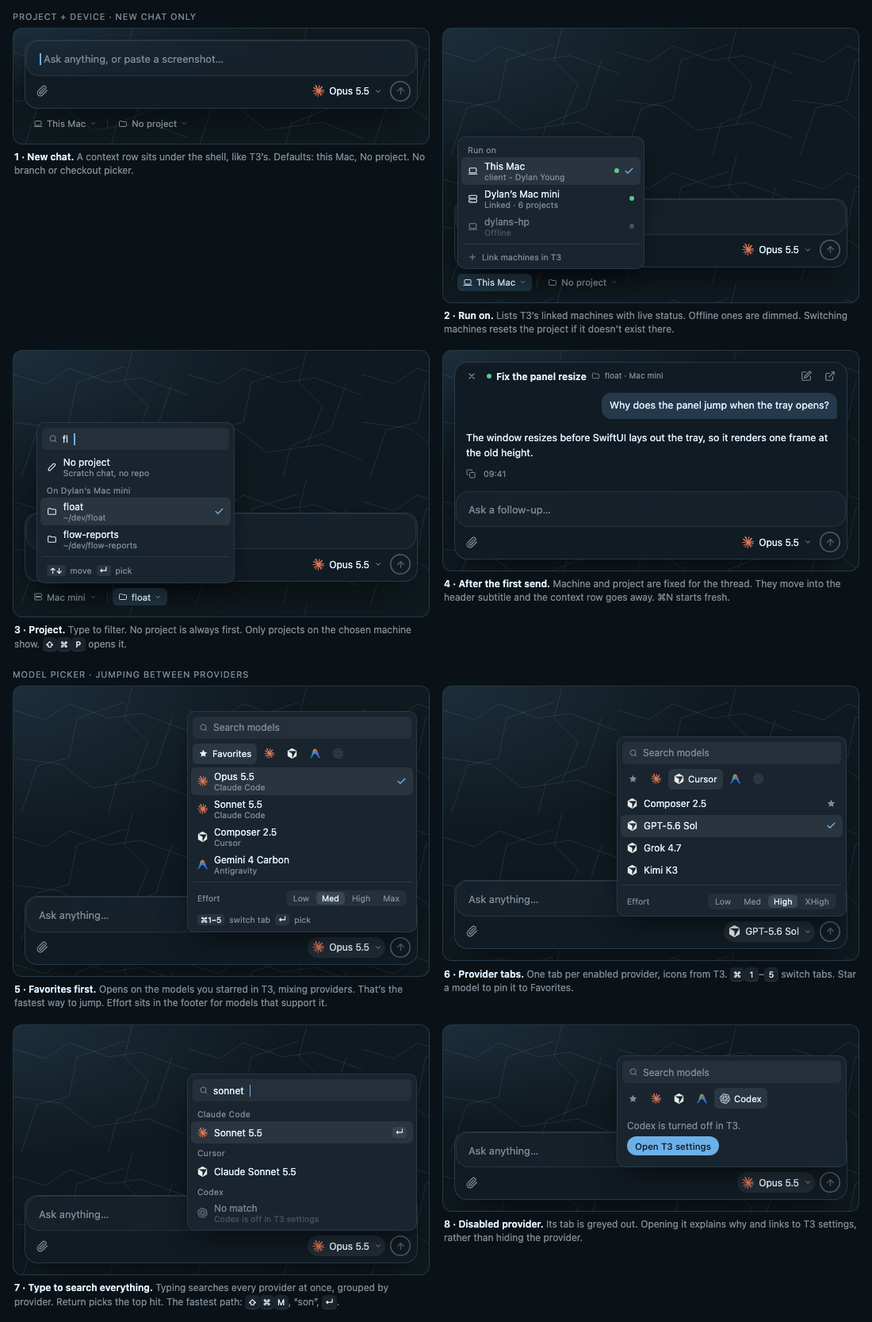
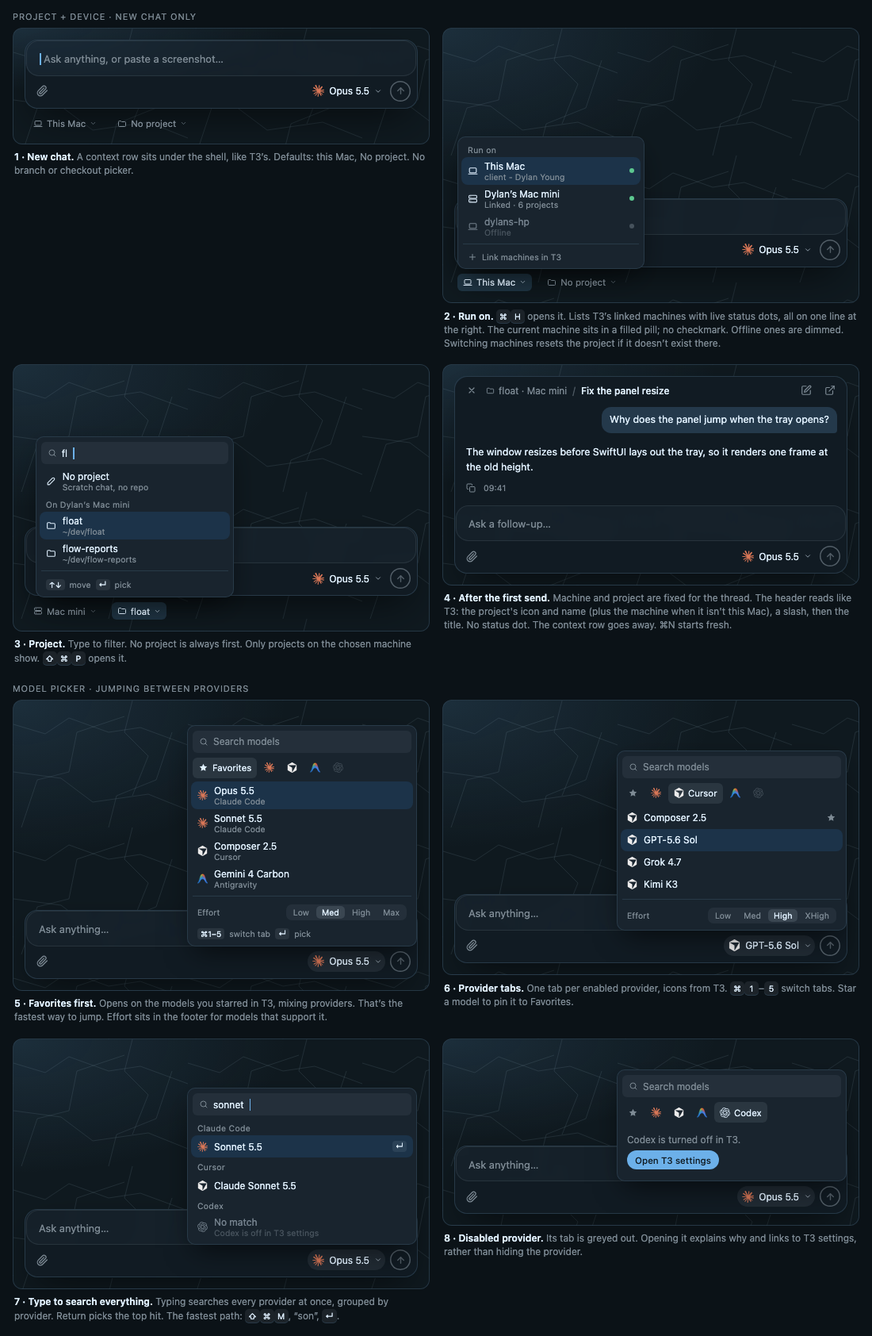
docs(design): header crumb, selection pill, thinking shimmer, in-app approvals, fixed-size panel with corner resize

diff --git a/design/float-mockups.html b/design/float-mockups.html
@@ -92,6 +92,29 @@ code{font-family:var(--font-mono);font-size:11.5px;background:var(--code-backgro
 .meta{display:flex;align-items:center;gap:4px;justify-content:flex-end;color:var(--muted-foreground);font-size:10.5px;margin:0 -4px 0 0}
 .meta .ib{width:20px;height:20px}.meta .ib svg{width:12px;height:12px}
 .working{display:flex;align-items:center;gap:8px;font-size:12px;color:var(--muted-foreground)}
+/* Pixel loader (nordbones): 3x3 cells stepping every 300ms. */
+.pix{display:inline-grid;grid-template-columns:repeat(3,3px);gap:1px}
+.pix i{width:3px;height:3px;background:var(--primary);opacity:.25;animation:px 1.2s steps(1) infinite}
+.pix i:nth-child(1),.pix i:nth-child(5),.pix i:nth-child(9){animation-delay:0s}.pix i:nth-child(2),.pix i:nth-child(6),.pix i:nth-child(7){animation-delay:.3s}.pix i:nth-child(3),.pix i:nth-child(4),.pix i:nth-child(8){animation-delay:.6s}
+@keyframes px{0%{opacity:1}25%{opacity:.25}}
+/* T3's thinking shimmer (apps/web/src/index.css, live-activity-focus): muted text, a 4.5rem foreground band sweeping left to right, 2.2s, steps(30). */
+.shim{position:relative;display:inline-block;color:var(--muted-foreground)}
+.shim::after{content:attr(data-t);position:absolute;inset:0;color:var(--foreground);
+  -webkit-mask:linear-gradient(90deg,transparent 0,rgb(0 0 0/.12) .675rem,rgb(0 0 0/.55) 1.575rem,#000 2.25rem,rgb(0 0 0/.55) 2.925rem,rgb(0 0 0/.12) 3.825rem,transparent 4.5rem) no-repeat;
+  mask:linear-gradient(90deg,transparent 0,rgb(0 0 0/.12) .675rem,rgb(0 0 0/.55) 1.575rem,#000 2.25rem,rgb(0 0 0/.55) 2.925rem,rgb(0 0 0/.12) 3.825rem,transparent 4.5rem) no-repeat;
+  -webkit-mask-size:4.5rem 100%;mask-size:4.5rem 100%;-webkit-mask-position:-1.5rem 0;mask-position:-1.5rem 0;animation:shim 2.2s steps(30) infinite}
+@keyframes shim{from{-webkit-mask-position:-4.5rem 0;mask-position:-4.5rem 0}to{-webkit-mask-position:calc(100% + 4.5rem) 0;mask-position:calc(100% + 4.5rem) 0}}
+@media (prefers-reduced-motion:reduce){.shim::after{animation:none;opacity:0}.pix i{animation:none;opacity:.6}}
+/* Header crumb, as T3 shows a thread: project icon and name, muted; a slash; the title. */
+.crumb{display:flex;align-items:center;gap:7px;min-width:0;flex:1;font-size:12px;white-space:nowrap}
+.crumb .pj{display:inline-flex;align-items:center;gap:5px;color:var(--muted-foreground);flex:none}
+.crumb .pj svg{width:11px;height:11px}
+.crumb .sl{color:var(--muted-foreground);opacity:.55}
+.crumb .tt{color:var(--foreground);font-weight:500;overflow:hidden;text-overflow:ellipsis}
+.crumb .tt small{font-weight:400;color:var(--muted-foreground);margin-left:6px}
+/* Approval actions */
+.apv{display:flex;align-items:center;gap:6px}
+.apv .lnk{margin:8px 0 0 4px;font-size:11.5px;color:var(--muted-foreground);text-decoration:underline;text-decoration-color:color-mix(in oklab,var(--muted-foreground) 40%,transparent);text-underline-offset:2px}
 .pulse{display:inline-flex;gap:3px}
 .pulse i{width:4px;height:4px;border-radius:50%;background:var(--primary);animation:p 1.2s infinite}
 .pulse i:nth-child(2){animation-delay:.15s}.pulse i:nth-child(3){animation-delay:.3s}
@@ -191,6 +214,7 @@ code{font-family:var(--font-mono);font-size:11.5px;background:var(--code-backgro
     <symbol id="i-clip" viewBox="0 0 24 24" fill="none" stroke="currentColor" stroke-width="2" stroke-linecap="round" stroke-linejoin="round"><path d="m21.4 11.1-9.2 9.2a6 6 0 0 1-8.5-8.5l8.6-8.6a4 4 0 0 1 5.7 5.7l-8.6 8.6a2 2 0 0 1-2.8-2.8l8.5-8.5"/></symbol>
     <symbol id="i-mic" viewBox="0 0 24 24" fill="none" stroke="currentColor" stroke-width="2" stroke-linecap="round" stroke-linejoin="round"><rect x="9" y="2" width="6" height="12" rx="3"/><path d="M19 10v1a7 7 0 0 1-14 0v-1M12 18v4"/></symbol>
     <symbol id="i-x" viewBox="0 0 24 24" fill="none" stroke="currentColor" stroke-width="2.4" stroke-linecap="round"><path d="M18 6 6 18M6 6l12 12"/></symbol>
+    <symbol id="i-folder" viewBox="0 0 24 24" fill="none" stroke="currentColor" stroke-width="2" stroke-linecap="round" stroke-linejoin="round"><path d="M3 7a2 2 0 0 1 2-2h4l2 2h8a2 2 0 0 1 2 2v8a2 2 0 0 1-2 2H5a2 2 0 0 1-2-2Z"/></symbol>
     <symbol id="i-burst" viewBox="0 0 256 257" preserveAspectRatio="xMidYMid"><path fill="#D97757" d="m50.228 170.321 50.357-28.257.843-2.463-.843-1.361h-2.462l-8.426-.518-28.775-.778-24.952-1.037-24.175-1.296-6.092-1.297L0 125.796l.583-3.759 5.12-3.434 7.324.648 16.202 1.101 24.304 1.685 17.629 1.037 26.118 2.722h4.148l.583-1.685-1.426-1.037-1.101-1.037-25.147-17.045-27.22-18.017-14.258-10.37-7.713-5.25-3.888-4.925-1.685-10.758 7-7.713 9.397.649 2.398.648 9.527 7.323 20.35 15.75L94.817 91.9l3.889 3.24 1.555-1.102.195-.777-1.75-2.917-14.453-26.118-15.425-26.572-6.87-11.018-1.814-6.61c-.648-2.723-1.102-4.991-1.102-7.778l7.972-10.823L71.42 0 82.05 1.426l4.472 3.888 6.61 15.101 10.694 23.786 16.591 32.34 4.861 9.592 2.592 8.879.973 2.722h1.685v-1.556l1.36-18.211 2.528-22.36 2.463-28.776.843-8.1 4.018-9.722 7.971-5.25 6.222 2.981 5.12 7.324-.713 4.73-3.046 19.768-5.962 30.98-3.889 20.739h2.268l2.593-2.593 10.499-13.934 17.628-22.036 7.778-8.749 9.073-9.657 5.833-4.601h11.018l8.1 12.055-3.628 12.443-11.342 14.388-9.398 12.184-13.48 18.147-8.426 14.518.778 1.166 2.01-.194 30.46-6.481 16.462-2.982 19.637-3.37 8.88 4.148.971 4.213-3.5 8.62-20.998 5.184-24.628 4.926-36.682 8.685-.454.324.519.648 16.526 1.555 7.065.389h17.304l32.21 2.398 8.426 5.574 5.055 6.805-.843 5.184-12.962 6.611-17.498-4.148-40.83-9.721-14-3.5h-1.944v1.167l11.666 11.406 21.387 19.314 26.767 24.887 1.36 6.157-3.434 4.86-3.63-.518-23.526-17.693-9.073-7.972-20.545-17.304h-1.36v1.814l4.73 6.935 25.017 37.59 1.296 11.536-1.814 3.76-6.481 2.268-7.13-1.297-14.647-20.544-15.1-23.138-12.185-20.739-1.49.843-7.194 77.448-3.37 3.953-7.778 2.981-6.48-4.925-3.436-7.972 3.435-15.749 4.148-20.544 3.37-16.333 3.046-20.285 1.815-6.74-.13-.454-1.49.194-15.295 20.999-23.267 31.433-18.406 19.702-4.407 1.75-7.648-3.954.713-7.064 4.277-6.286 25.47-32.405 15.36-20.092 9.917-11.6-.065-1.686h-.583L44.07 198.125l-12.055 1.555-5.185-4.86.648-7.972 2.463-2.593 20.35-13.999-.064.065Z"/></symbol>
     <symbol id="i-chev" viewBox="0 0 24 24" fill="none" stroke="currentColor" stroke-width="2" stroke-linecap="round" stroke-linejoin="round"><path d="m6 9 6 6 6-6"/></symbol>
     <symbol id="i-shield" viewBox="0 0 24 24" fill="none" stroke="currentColor" stroke-width="2" stroke-linecap="round" stroke-linejoin="round"><path d="M12 22s8-4 8-10V5l-8-3-8 3v7c0 6 8 10 8 10Z"/><path d="M12 8v4M12 16h.01"/></symbol>
@@ -235,9 +259,12 @@ function footer({send='off', modelOpen=false}={}){
     <span class="ctl model ${modelOpen?'open':''}"><svg class="claude"><use href="#i-burst"/></svg>Opus 5.5<span class="bars"><i class="on" style="height:4px"></i><i class="on" style="height:7px"></i><i style="height:9px"></i><i style="height:11px"></i></span>${modelOpen?`<svg style="width:12px;height:12px"><use href="#i-chev"/></svg>`:''}</span>
     <span class="ctl">${ic('mic')}</span>${s}</div></div>`;
 }
-function trayTop({title, sub='No project', dot='var(--success)', openHover=false, closeHover=false, body}){
-  return `<div class="tray-top"><div class="hdr"><span class="ib close ${closeHover?'hv':''}" title="Close (Esc)">${ic('x')}</span><span class="dot" style="background:${dot}"></span>
-    <div class="ttl">${title}<small>${sub}</small></div>
+function trayTop({title, project=null, projectIcon='folder', offline=null, openHover=false, closeHover=false, body}){
+  const pj = project ? `<span class="pj">${projectIcon==='float' ? ic('float') : ic('folder')}${project}</span><span class="sl">/</span>` : '';
+  const head = offline
+    ? `<span class="dot" style="background:var(--muted-foreground)"></span><div class="crumb"><span class="tt">${title}<small>${offline}</small></span></div>`
+    : `<div class="crumb">${pj}<span class="tt">${title}</span></div>`;
+  return `<div class="tray-top"><div class="hdr"><span class="ib close ${closeHover?'hv':''}" title="Close (Esc)">${ic('x')}</span>${head}
     <span class="ib" title="New chat">${ic('new')}</span><span class="ib ${openHover?'hv':''}" title="Open in T3">${ic('open')}</span></div>
     <div class="msgs under">${body}</div></div>`;
 }
@@ -261,26 +288,26 @@ const states = [
    `<b>1 · Summoned.</b> <span class="kbd">⌥</span> <span class="kbd">Space</span> opens just the composer, focused. Same as your T3 one-line composer, nothing above it.`],
   [shell({input:`<div class="chips">${chip('Screenshot 09.38.png')}${chip('image.png',60)}</div>What's wrong with this layout on mobile?<span class="caret"></span>`, send:'on'}),
    `<b>2 · Pasted images.</b> <span class="kbd">⌘</span> <span class="kbd">V</span> adds removable chips inside the frosted input. Send ring lights up.`],
-  [shell({tray: trayTop({title:'Mobile layout bug', body:`<div class="msg-u"><div class="thumbs">${thumb()}${thumb(60)}</div>What's wrong with this layout on mobile?</div><div class="step">${ic('check')}Read 2 images</div><div class="working"><span class="pulse"><i></i><i></i><i></i></span>Working · 14s</div>`}),
+  [shell({tray: trayTop({title:'Mobile layout bug', body:`<div class="msg-u"><div class="thumbs">${thumb()}${thumb(60)}</div>What's wrong with this layout on mobile?</div><div class="step">${ic('check')}Read 2 images</div><div class="working"><span class="pix"><i></i><i></i><i></i><i></i><i></i><i></i><i></i><i></i><i></i></span><span class="shim" data-t="Thinking">Thinking</span><span>· 14s</span></div>`}),
      input: ph('Queue a follow-up…'), send:'stop'}),
-   `<b>3 · Working.</b> The tray slides up out of the input on first send. One status line, and send becomes a red stop ring.`],
-  [shell({tray: trayTop({title:'Mobile layout bug', closeHover:true, body:`<div class="msg-u"><div class="thumbs">${thumb()}${thumb(60)}</div>What's wrong with this layout on mobile?</div>` +
+   `<b>3 · Working.</b> The tray opens at its full height on first send. One status line: the pixel loader, then T3's shimmering "Thinking" text and the elapsed time. Send becomes a red stop ring.`],
+  [shell({tray: trayTop({title:'Mobile layout bug', project:'float', projectIcon:'float', closeHover:true, body:`<div class="msg-u"><div class="thumbs">${thumb()}${thumb(60)}</div>What's wrong with this layout on mobile?</div>` +
      reply(['The sidebar keeps its fixed <code>280px</code> width below the breakpoint, so the main column gets squeezed to about 90px.','Drop the fixed width under <code>md</code> and let the sidebar collapse into the header menu.'],'09:42')}),
      input: ph('Ask a follow-up…')}),
    `<b>4 · Replied.</b> Replies are plain text on the tray, with no bubble. Only your own messages sit in bubbles. Under it, as in T3: the copy button, then the time, left-aligned. The × at the top left (shown hovered) hides Float, same as <span class="kbd">Esc</span>.`],
-  [shell({tray: trayTop({title:'Clean up node_modules', dot:'var(--warning)', openHover:true, body:`<div class="msg-u">Find and delete stale node_modules folders under ~/repos</div><div class="notice warn">${ic('shield')}<div><b>Needs your approval</b>Wants to run <code>rm -rf</code> on 14 folders.<div><span class="btn pri">${ic('open')}Open in T3</span></div></div></div>`}),
-     input: ph('Waiting on approval in T3…')}),
-   `<b>5 · Needs input.</b> Approvals hand off to the thread in T3. Header dot turns amber.`],
-  [shell({tray: trayTop({title:'Clean up node_modules', dot:'var(--warning)', body:`<div class="msg-u">Find stale node_modules folders under ~/repos and clean them up</div><div class="ask"><div class="qh">Scope<span class="pg">1 of 2</span></div><div class="q">Which folders should I delete?</div>` +
+  [shell({tray: trayTop({title:'Clean up node_modules', body:`<div class="msg-u">Find and delete stale node_modules folders under ~/repos</div><div class="notice warn">${ic('shield')}<div><b>Needs your approval</b>Wants to run <code>rm -rf</code> on 14 folders.<div class="apv"><span class="btn pri">Allow</span><span class="btn ghost">Deny</span><span class="lnk">Open in T3</span></div></div></div>`}),
+     input: ph('Waiting on your approval…')}),
+   `<b>5 · Needs approval.</b> Approve or deny right here, and the run keeps going without opening T3. <span class="kbd">⌘</span><span class="kbd">↵</span> allows, <span class="kbd">Esc</span> leaves it pending. Open in T3 shows the full request.`],
+  [shell({tray: trayTop({title:'Clean up node_modules', body:`<div class="msg-u">Find stale node_modules folders under ~/repos and clean them up</div><div class="ask"><div class="qh">Scope<span class="pg">1 of 2</span></div><div class="q">Which folders should I delete?</div>` +
      `<div class="opt sel"><span class="kbd">1</span><div class="t"><b>Untouched for 30+ days</b><span>14 folders, 3.1 GB</span></div><svg><use href="#i-check"/></svg></div>` +
      `<div class="opt"><span class="kbd">2</span><div class="t"><b>All of them</b><span>41 folders, 9.8 GB</span></div><svg><use href="#i-check"/></svg></div>` +
      `<div class="opt"><span class="kbd">3</span><div class="t"><b>Just list them</b><span>Delete nothing yet</span></div><svg><use href="#i-check"/></svg></div>` +
      `<div class="af"><span class="btn pri">Next</span><small><span class="kbd">1</span>–<span class="kbd">3</span> pick · <span class="kbd">↵</span> confirm</small></div></div>`}),
      input: ph('Or type your own answer…')}),
-   `<b>6 · Asks a question.</b> When an agent asks you something, the question card shows in Float and the answer goes back through T3. Number keys pick, Return confirms, and typing in the input answers in your own words. Header dot turns amber. Tool approvals still open T3.`],
-  [shell({tray: trayTop({title:'Float', sub:'T3 not running', dot:'var(--muted-foreground)', body:`<div class="notice info">${ic('power')}<div><b>T3 Code isn't running</b>Your draft is saved. Launch T3 and Float sends it.<div style="display:flex;gap:6px"><span class="btn pri">Launch T3</span><span class="btn ghost">Not now</span></div></div></div>`}),
+   `<b>6 · Asks a question.</b> When an agent asks you something, the question card shows in Float and the answer goes back through T3. Number keys pick, Return confirms, and typing in the input answers in your own words. Tool approvals still open T3.`],
+  [shell({tray: trayTop({title:'Float', offline:'T3 not running', body:`<div class="notice info">${ic('power')}<div><b>T3 Code isn't running</b>Your draft is saved. Launch T3 and Float sends it.<div style="display:flex;gap:6px"><span class="btn pri">Launch T3</span><span class="btn ghost">Not now</span></div></div></div>`}),
      input: 'Summarise the diff in ~/repos/float since yesterday'}),
-   `<b>7 · T3 closed.</b> The tray opens just to show the notice. Draft and images survive.`],
+   `<b>7 · T3 closed.</b> The tray opens just to show the notice. Draft and images survive. The grey dot is the only status dot Float shows, and only while T3 or the thread's machine is disconnected.`],
   [shell({input: ph('Ask anything…'), modelOpen:true, style:'margin-top:118px',
      extra:`<div class="menu"><div class="sel"><svg class="claude" style="color:var(--claude)"><use href="#i-burst"/></svg>Opus 5.5<small>default</small></div><div><svg style="color:var(--claude)"><use href="#i-burst"/></svg>Sonnet 5.5</div><div><svg style="color:var(--claude)"><use href="#i-burst"/></svg>Haiku 5.5</div></div>`}),
    `<b>8 · Fast follow: model picker.</b> The model + effort control is already in the footer, so the menu drops in without moving anything.`],

diff --git a/design/float-pickers.html b/design/float-pickers.html
@@ -145,7 +145,7 @@ code{font-family:var(--font-mono);font-size:11.5px;background:var(--code-backgro
 
 .grid{display:grid;grid-template-columns:1fr 1fr;gap:18px 16px;align-items:start}
 @media (max-width:600px){.grid{grid-template-columns:1fr}.desk .shell{left:16px;width:auto}.app{width:calc(100% - 36px)}}
-.ctx{display:flex;align-items:center;gap:6px;padding:8px 4px 0;font-size:11.5px;color:var(--muted-foreground)}
+.ctx{display:flex;align-items:center;gap:12px;padding:8px 4px 0;font-size:11.5px;color:var(--muted-foreground)}
 .cx{display:inline-flex;align-items:center;gap:5px;height:22px;padding:0 7px;border-radius:6px;position:relative}
 .cx svg{width:12px;height:12px}
 .cx.on{background:color-mix(in oklab, var(--primary) 18%, transparent);color:var(--foreground)}
@@ -155,7 +155,17 @@ code{font-family:var(--font-mono);font-size:11.5px;background:var(--code-backgro
   box-shadow:0 14px 34px -10px rgba(0,0,0,.65);padding:4px;font-size:12px;color:var(--foreground)}
 .pop .lab{font-size:10.5px;color:var(--muted-foreground);padding:6px 8px 3px;letter-spacing:.02em}
 .pop .it{display:flex;align-items:center;gap:8px;min-height:28px;padding:4px 8px;border-radius:6px}
-.pop .it.sel{background:color-mix(in oklab, var(--foreground) 8%, transparent)}
+/* Current item: nordbones `secondary` pill (#1C3349), as T3 marks a selected chip. No checkmark. Hover and keyboard highlight: foreground at 6%. */
+.pop .it.sel{background:#1c3349;border-radius:8px}
+.pop .it.hl{background:color-mix(in oklab, var(--foreground) 6%, transparent)}
+/* Header crumb, as T3 shows a thread: project icon and name, muted; a slash; the title. No status dot unless T3 or the machine is disconnected. */
+.crumb{display:flex;align-items:center;gap:7px;min-width:0;flex:1;font-size:12px;white-space:nowrap}
+.crumb .pj{display:inline-flex;align-items:center;gap:5px;color:var(--muted-foreground);flex:none}
+.crumb .pj svg{width:11px;height:11px}
+.crumb .sl{color:var(--muted-foreground);opacity:.55}
+.crumb .tt{color:var(--foreground);font-weight:500;overflow:hidden;text-overflow:ellipsis}
+.crumb .tt small{font-weight:400;color:var(--muted-foreground);margin-left:6px}
+
 .pop .it.dim{opacity:.45}
 .pop .it svg{width:13px;height:13px;flex:none}
 .pop .it .sub{display:block;font-size:10.5px;color:var(--muted-foreground)}
@@ -244,7 +254,6 @@ const ph=t=>`<span class="ph">${t}</span>`;
 function ctx({dev='This Mac',devIcon='p-laptop',proj='No project',projIcon='p-folder',devOpen=false,projOpen=false,devPop='',projPop=''}={}){
   return `<div class="ctx">
     <span class="anchor"><span class="cx ${devOpen?'on':''}">${ic(devIcon)}${dev}<svg class="cv"><use href="#p-chev"/></svg></span>${devPop}</span>
-    <span class="sep"></span>
     <span class="anchor"><span class="cx ${projOpen?'on':''}">${ic(projIcon)}${proj}<svg class="cv"><use href="#p-chev"/></svg></span>${projPop}</span>
   </div>`;
 }
@@ -252,7 +261,7 @@ const cell=(html,cap,pad=0)=>`<div><div class="bg" style="padding-top:${14+pad}p
 
 const devPop=`<div class="pop">
   <div class="lab">Run on</div>
-  <div class="it sel">${ic('p-laptop')}<span>This Mac<span class="sub">client - Dylan Young</span></span><span class="r"><span class="on-dot"></span>${ic('p-check','ck')}</span></div>
+  <div class="it sel">${ic('p-laptop')}<span>This Mac<span class="sub">client - Dylan Young</span></span><span class="r"><span class="on-dot"></span></span></div>
   <div class="it">${ic('p-server')}<span>Dylan’s Mac mini<span class="sub">Linked · 6 projects</span></span><span class="r"><span class="on-dot"></span></span></div>
   <div class="it dim">${ic('p-laptop')}<span>dylans-hp<span class="sub">Offline</span></span><span class="r"><span class="on-dot off"></span></span></div>
   <hr><div class="ft">${ic('p-plus')}Link machines in T3</div></div>`;
@@ -261,7 +270,7 @@ const projPop=`<div class="pop" style="left:-96px;min-width:250px">
   <div class="srch">${ic('p-search')}<b>fl</b><span class="caret"></span></div>
   <div class="it">${ic('p-scratch')}<span>No project<span class="sub">Scratch chat, no repo</span></span></div>
   <div class="lab">On Dylan’s Mac mini</div>
-  <div class="it sel">${ic('p-folder')}<span>float<span class="sub">~/dev/float</span></span><span class="r">${ic('p-check','ck')}</span></div>
+  <div class="it sel">${ic('p-folder')}<span>float<span class="sub">~/dev/float</span></span></div>
   <div class="it">${ic('p-folder')}<span>flow-reports<span class="sub">~/dev/flow-reports</span></span></div>
   <hr><div class="ft"><span class="kbd2">↑↓</span> move <span class="kbd2">↵</span> pick</div></div>`;
 
@@ -269,17 +278,17 @@ document.getElementById('g1').innerHTML=[
   cell(shell({input:`<span class="caret"></span>${ph(' Ask anything, or paste a screenshot…')}`})+ctx(),
     `<b>1 · New chat.</b> A context row sits under the shell, like T3’s. Defaults: this Mac, No project. No branch or checkout picker.`),
   cell(shell({input:ph('Ask anything…')})+ctx({devOpen:true,devPop}),
-    `<b>2 · Run on.</b> Lists T3’s linked machines with live status. Offline ones are dimmed. Switching machines resets the project if it doesn’t exist there.`,200),
+    `<b>2 · Run on.</b> <span class="kbd">⌘</span><span class="kbd">H</span> opens it. Lists T3’s linked machines with live status dots, all on one line at the right. The current machine sits in a filled pill; no checkmark. Offline ones are dimmed. Switching machines resets the project if it doesn’t exist there.`,200),
   cell(shell({input:ph('Ask anything…')})+ctx({dev:'Mac mini',devIcon:'p-server',proj:'float',projOpen:true,projPop}),
     `<b>3 · Project.</b> Type to filter. No project is always first. Only projects on the chosen machine show. <span class="kbd">⇧</span><span class="kbd">⌘</span><span class="kbd">P</span> opens it.`,190),
-  cell(shell({tray:`<div class="tray-top"><div class="hdr"><span class="ib close"><svg><use href="#i-x"/></svg></span><span class="dot"></span><div class="ttl">Fix the panel resize<small style="display:inline-flex;align-items:center;gap:6px">${ic('p-folder').replace('<svg','<svg style="width:11px;height:11px"')}float · Mac mini</small></div><span class="ib"><svg><use href="#i-new"/></svg></span><span class="ib"><svg><use href="#i-open"/></svg></span></div><div class="msgs"><div class="msg-u">Why does the panel jump when the tray opens?</div><div class="msg-a"><p>The window resizes before SwiftUI lays out the tray, so it renders one frame at the old height.</p><div class="meta"><span class="ib"><svg><use href="#i-copy"/></svg></span>09:41</div></div></div></div>`,input:ph('Ask a follow-up…')}),
-    `<b>4 · After the first send.</b> Machine and project are fixed for the thread. They move into the header subtitle and the context row goes away. ⌘N starts fresh.`),
+  cell(shell({tray:`<div class="tray-top"><div class="hdr"><span class="ib close"><svg><use href="#i-x"/></svg></span><div class="crumb"><span class="pj">${ic('p-folder')}float · Mac mini</span><span class="sl">/</span><span class="tt">Fix the panel resize</span></div><span class="ib"><svg><use href="#i-new"/></svg></span><span class="ib"><svg><use href="#i-open"/></svg></span></div><div class="msgs"><div class="msg-u">Why does the panel jump when the tray opens?</div><div class="msg-a"><p>The window resizes before SwiftUI lays out the tray, so it renders one frame at the old height.</p><div class="meta"><span class="ib"><svg><use href="#i-copy"/></svg></span>09:41</div></div></div></div>`,input:ph('Ask a follow-up…')}),
+    `<b>4 · After the first send.</b> Machine and project are fixed for the thread. The header reads like T3: the project's icon and name (plus the machine when it isn't this Mac), a slash, then the title. No status dot. The context row goes away. ⌘N starts fresh.`),
 ].join('');
 
 const favPop=`<div class="pop right" style="min-width:290px">
   <div class="srch">${ic('p-search')}<span>Search models</span></div>
   <div class="tabs"><span class="tab on">${ic('p-star')}Favorites</span><span class="tab">${ic('g-claude')}</span><span class="tab">${ic('g-cursor')}</span><span class="tab">${ic('g-anti')}</span><span class="tab off">${ic('g-codex')}</span></div>
-  <div class="it sel">${ic('g-claude')}<span>Opus 5.5<span class="sub">Claude Code</span></span><span class="r">${ic('p-check','ck')}</span></div>
+  <div class="it sel">${ic('g-claude')}<span>Opus 5.5<span class="sub">Claude Code</span></span></div>
   <div class="it">${ic('g-claude')}<span>Sonnet 5.5<span class="sub">Claude Code</span></span></div>
   <div class="it">${ic('g-cursor')}<span>Composer 2.5<span class="sub">Cursor</span></span></div>
   <div class="it">${ic('g-anti')}<span>Gemini 4 Carbon<span class="sub">Antigravity</span></span></div>
@@ -290,7 +299,7 @@ const tabPop=`<div class="pop right" style="min-width:290px">
   <div class="srch">${ic('p-search')}<span>Search models</span></div>
   <div class="tabs"><span class="tab">${ic('p-star')}</span><span class="tab">${ic('g-claude')}</span><span class="tab on">${ic('g-cursor')}Cursor</span><span class="tab">${ic('g-anti')}</span><span class="tab off">${ic('g-codex')}</span></div>
   <div class="it">${ic('g-cursor')}<span>Composer 2.5</span><span class="r">${ic('p-star')}</span></div>
-  <div class="it sel">${ic('g-cursor')}<span>GPT-5.6 Sol</span><span class="r">${ic('p-check','ck')}</span></div>
+  <div class="it sel">${ic('g-cursor')}<span>GPT-5.6 Sol</span></div>
   <div class="it">${ic('g-cursor')}<span>Grok 4.7</span></div>
   <div class="it">${ic('g-cursor')}<span>Kimi K3</span></div>
   <hr><div class="ft">Effort<span class="seg"><span>Low</span><span>Med</span><span class="on">High</span><span>XHigh</span></span></div></div>`;

diff --git a/design/README.md b/design/README.md
@@ -30,10 +30,13 @@ The colours come from Dylan's nordbones T3 theme. So do the pixel thinking loade
 - **Input rim.** As in T3, the frosted input has a 1px hairline ring (foreground at about 9%) that follows its 16pt corners all the way round, so it reads as its own inset card. The input is inset 1pt from the shell's left and right edges, so a 1pt strip of solid tray separates the shell border from the rim and the two lines never merge.
 
 - **Corner radius:** 16 for the shell, 12 for your message bubbles, 10 for cards and menus, 6 for chips.
-- **Thinking loader:** the 3×3 pixel grid, 4 frames, stepping every 300 ms. It's the only progress indicator.
+- **Thinking loader:** the 3×3 pixel grid, 4 frames, stepping every 300 ms, followed by T3's shimmering "Thinking" text and the elapsed time. The shimmer copies T3's `live-activity-focus` (`apps/web/src/index.css`): the word in the muted colour, with a 4.5rem band of the text colour sweeping left to right every 2.2 s in 30 steps, fading in and out at 12% → 55% → 100% → 55% → 12%. With Reduce Motion, no sweep. These two are the only progress indicators.
 - **Replies:** show only assistant text. Never show tool calls. Replies have no bubble: plain text on the tray, as in T3. Under each reply sits a muted row with the copy button first, then the time, left-aligned. Only your own messages sit in bubbles.
-- **Header:** a close button (×) at the top left, then the status dot, title, and project and machine subtitle, then New chat and Open in T3 on the right. The × hides the panel, the same as Esc; the draft and chat stay. The compact state has no header, so Esc hides it there. Quit Float lives in the menu bar cloud's right-click menu. You can drag the window by the header as well as the footer.
-- **Questions and approvals:** when an agent asks you something through T3's ask-user-question tool, Float shows a question card in the tray: the header in small caps, "1 of N" when there are several, the question, and the options with their descriptions. Number keys pick, Return confirms, and typing in the input answers in your own words when the question allows it. The answer goes back through T3. Tool approvals still hand off to T3 with Open in T3.
+- **Header:** a close button (×) at the top left, then a crumb as T3 shows a thread: the project's icon (T3's project icon when it has one, otherwise a folder) and name in the muted colour, plus " · <machine>" when the thread isn't on this Mac, then a muted slash, then the title in the text colour. A chat with no project shows just the title. No status dot, except a grey one while T3 or the thread's machine is disconnected. New chat and Open in T3 sit on the right. The × hides the panel, the same as Esc; the draft and chat stay. The compact state has no header, so Esc hides it there. Quit Float lives in the menu bar cloud's right-click menu. You can drag the window by the header as well as the footer.
+- **Questions and approvals:** when an agent asks you something through T3's ask-user-question tool, Float shows a question card in the tray: the header in small caps, "1 of N" when there are several, the question, and the options with their descriptions. Number keys pick, Return confirms, and typing in the input answers in your own words when the question allows it. The answer goes back through T3. Tool approvals are answered in Float too (state 5): the approval card shows what the agent wants to do, with Allow (primary, ⌘↵), Deny, and a small Open in T3 link for the full request, so the run keeps going without opening T3.
 - **Footer:** paperclip on the left; provider icon, model and send/stop on the right.
-- **Panel height:** the width is fixed. The tray grows with the conversation up to a maximum height, and you can drag the panel's top edge to change that maximum: a 4pt grab zone along the top with the up-down resize cursor. The input stays anchored at the bottom, so dragging moves only the top. Limits: at least 240pt (header, a few lines and the composer), at most 85% of the screen's visible height. Float remembers the height. Double-clicking the top edge resets it to the default 560pt. The compact state, with no tray, never resizes.
+- **Panel size:** once a chat has a tray, the panel opens straight to its full size, even for the first message, and never grows or shrinks as messages stream in. You set that size yourself: drag the top edge to change the height, or either top corner to change the height and the width together. The bottom edge and the input stay anchored, so dragging moves only the top (and the dragged side). Grab zones: 4pt along the top edge with the up-down cursor, 10×10pt at the top corners with the diagonal cursor. Limits: height 240pt to 85% of the screen's visible height; width 420pt to 900pt. Float remembers the size. Double-clicking the top edge resets it to the default (560pt tall, today's width). The compact state, with no tray, keeps its width and never resizes.
+- **Dragging:** you can drag the window by the header, the footer's empty space, and a thin strip along the top edge of the input (6pt, arrow cursor), which matters in the compact state where there's no header.
+- **Pickers:** the model, project and Run on pickers keep one size and one anchor while open, whatever tab or query is showing, so they never jump. The model picker is a fixed 300×360pt and its bottom-right corner stays pinned above the model button; the list scrolls inside it. The current item sits in a filled pill in nordbones `secondary` (`#1C3349`, radius 8), as T3 marks a selected chip, with no checkmark. Hover and the keyboard highlight use the text colour at 6%. Trailing status dots line up in one column.
+- **Keyboard:** ⌥Space toggles Float, Esc hides it (or closes an open picker first), Return sends, ⇧Return adds a new line, the standard editing keys work in the input (⌘A, ⌘C, ⌘X, ⌘V, ⌘Z, ⇧⌘Z), ⌘V also pastes images, ⌘N starts a new chat, ⇧⌘M opens the model picker, ⇧⌘P the project picker, ⌘H the Run on picker, ⌘. stops a run.
 - **Shared centre lines:** the header's × sits on the same vertical centre line as the footer's paperclip, and Open in T3 on the same line as the send ring, 21pt in from each inner edge of the shell.
